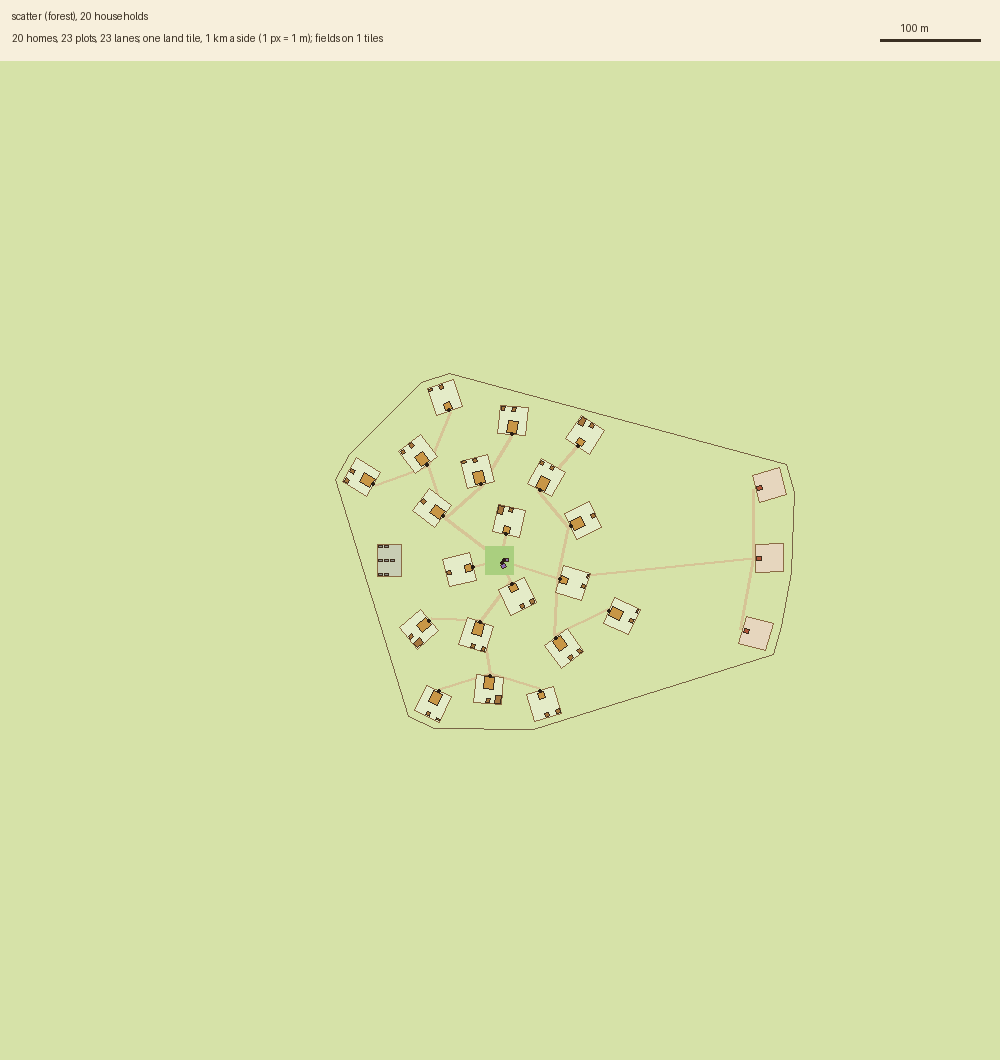
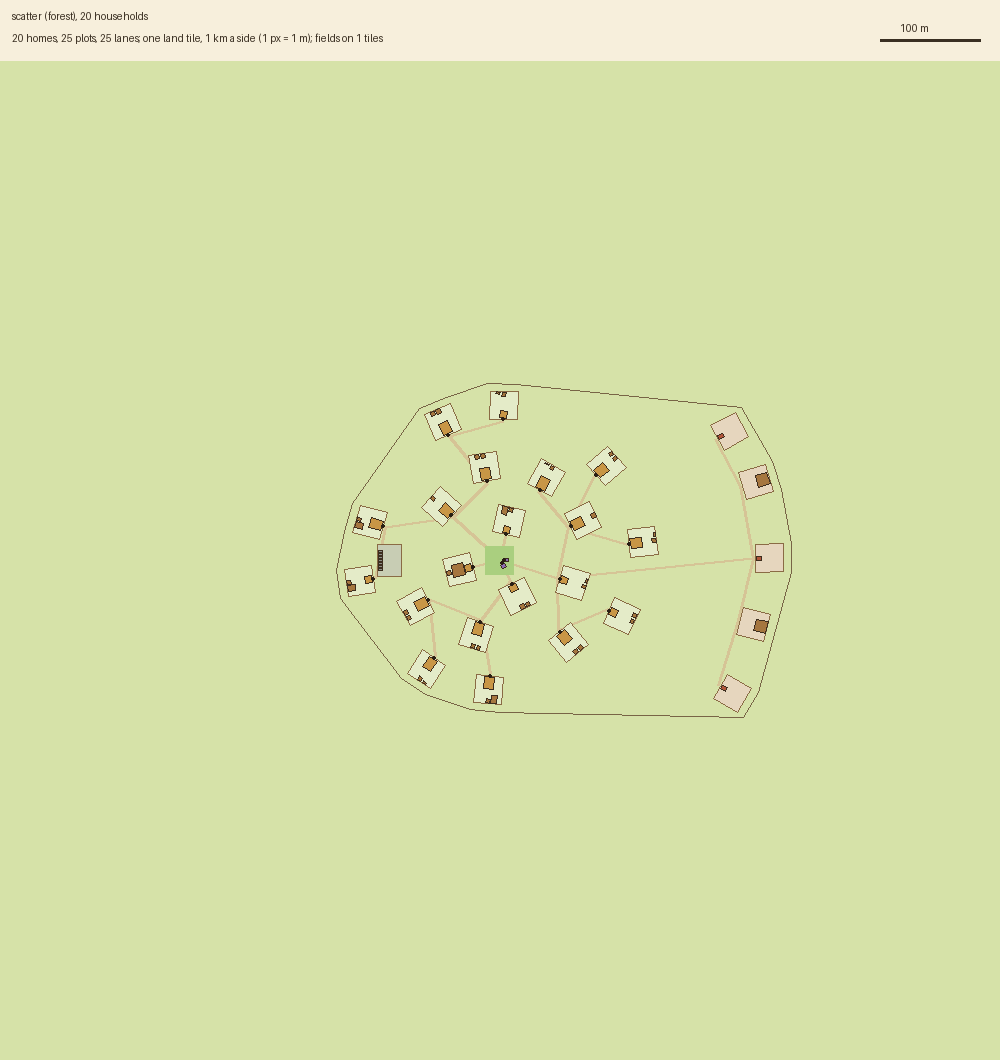
world5 WP3 (first part): bots at home in towns; fewer refusals than a plain world
- mending names the building (bid) and prefers the worn one on a tile of many
- target_building takes a building by id (towns_spec §5.5)
- a full yard spills to craft plots of one's own, up to three
- fishing walks to the next water when the best is out of reach (towns: a village
  fishes its water thin)
- field strips 40 x 200 m, 80 a tile (open-field strips; 100 m strips ran out)

3 bot years, 3 seeds: refusals 1,706 (plain 2,290), alive 711 (662), births 174 (141),
starved 41 (54). Without towns the hash is unchanged.

Claude-Session: https://claude.ai/code/session_01GmnrPiQgfTzNXLBavfq67Z

diff --git a/civ/acts.py b/civ/acts.py
@@ -866,7 +866,18 @@ class Acts:
                 if cands:
                     spot = min(cands, key=lambda t: (not good(*t), dist(p.x, p.y, *t)))
                     break
-            if not spot or not self.walk(p, act, spot[0], spot[1], True):
+            walked = bool(spot) and self.walk(p, act, spot[0], spot[1], True)
+            if spot and not walked and w.towns:
+                # the best water out of reach (another lake): the next that can be walked to
+                for rr in (self.sight(p), 12, 20):
+                    for t in sorted(((x, y) for x, y in w.beside(p.x, p.y, rr) if TERRAIN[w.t(x, y)].get("water")),
+                                    key=lambda t: (not good(*t), dist(p.x, p.y, *t)))[:12]:
+                        if self.walk(p, act, t[0], t[1], True):
+                            walked = True
+                            break
+                    if walked:
+                        break
+            if not walked:
                 if not thin:
                     return "you know of no water to fish in"
                 act = {"do": "fish", "left": act["left"], "got": 0}      # none better near: fish here all the same
@@ -1464,8 +1475,8 @@ class Acts:
     def start_mend(self, p, a):
         w = self.w
         worn = lambda b: b.done and b.hp < BUILDINGS[b.kind]["hp"] and self.may_mend(p, b, a.get("for"))
-        if a.get("x") is not None and a.get("y") is not None:
-            b = self.target_building(p, a, lambda b: b.done)
+        if a.get("x") is not None and a.get("y") is not None or a.get("bid") is not None:
+            b = (self.target_building(p, a, worn) if w.towns else None) or self.target_building(p, a, lambda b: b.done)
             if not b:
                 return "there is no building there to mend"
             if not self.may_mend(p, b, a.get("for")):
@@ -1484,14 +1495,14 @@ class Acts:
             st = self.building_near(p, lambda s: s.done and s.inv.get(stuff) and s.owner in (p.id, p.partner)
                                     and "store" in BUILDINGS[s.kind]["roles"], r=15)
             if st and not a.get("fetched") and p.intent is not None:
-                p.intent.setdefault("plan", []).insert(0, dict(a, x=b.x, y=b.y, fetched=True))
+                p.intent.setdefault("plan", []).insert(0, dict(a, x=b.x, y=b.y, bid=b.id, fetched=True))
                 return self.start_take(p, {"item": stuff, "n": 1, "x": st.x, "y": st.y})
             # made from what one carries (rope from fibre), or gathered close by (stone): that first, then the mending
             # (world4: "takes 1 rope, and you carry none" was the minds' second refusal, 223 in 94 days)
             if not a.get("readied") and p.intent is not None:
                 plan = p.intent.setdefault("plan", [])
                 before = len(plan)
-                again = dict(a, x=b.x, y=b.y, readied=True, fetched=True)
+                again = dict(a, x=b.x, y=b.y, bid=b.id, readied=True, fetched=True)
                 near = self.find(p, stuff, far=False) if self.sources(stuff) else None
                 if (self.start_gather(p, {"item": stuff, "n": 1}) if near and dist(p.x, p.y, *near) <= 10
                         else stuff in I.ITEMS and not self.sources(stuff) and self.start_craft(p, {"item": stuff, "n": 1})) is True:
@@ -1682,6 +1693,10 @@ class Acts:
     # ================= putting and taking =================
     def target_building(self, p, a, test):
         w = self.w
+        if a.get("bid") is not None:                # named by its id (bots always can: towns_spec §5.5)
+            b = w.buildings.get(a.get("bid"))
+            if b is not None and test(b):
+                return b
         if a.get("x") is not None and a.get("y") is not None:
             x, y = int(a["x"]), int(a["y"])
             b = w.pick(p, x, y, test)

diff --git a/civ/towns.py b/civ/towns.py
@@ -463,14 +463,18 @@ def place(w, p, kind, near=None):
         spot = on_plot(w, site, plot, kind, size, front=False)
         if spot:
             return spot
-        craft = next((q for q in site.plots if q["holder"] == p.id and q["kind"] == "craft"), None)
-        if craft is None:                       # a full yard spills to a craft plot of one's own at the edge
+        # a full yard spills to a craft plot of one's own at the edge (another when those are full, up to three)
+        crafts = [q for q in site.plots if q["holder"] == p.id and q["kind"] == "craft"]
+        for q in crafts:
+            if spot := on_plot(w, site, q, kind, size, front=False):
+                return spot
+        if len(crafts) < 3:
             craft = plot_for(w, site, p.id, "craft")
             if isinstance(craft, str):
                 return "your yard is full, and the settlement has no room for another plot"
-        if spot := on_plot(w, site, craft, kind, size, front=False):
-            return spot
-        return "your yard and your craft plot are full"
+            if spot := on_plot(w, site, craft, kind, size, front=False):
+                return spot
+        return "your yard and your craft plots are full"
     if z == "edge":
         craft = next((q for q in site.plots if q["holder"] == p.id and q["kind"] == "craft"), None)
         if craft is None:
@@ -686,7 +690,7 @@ def furlongs(w, x, y, site):
     k = key(x, y)
     if k in w.fieldmap:
         return w.fieldmap[k]
-    sw, sl = 25 * CELL, 50 * CELL
+    sw, sl = 10 * CELL, 50 * CELL           # a strip 40 x 200 m (open-field strips were long and narrow)
     vertical = abs(y - site.y) >= abs(x - site.x) if (x, y) != (site.x, site.y) else True
     w_, h_ = (sw, sl) if vertical else (sl, sw)
     probe = Settlement(id=-1, name="", x=x, y=y)
@@ -700,7 +704,7 @@ def furlongs(w, x, y, site):
         for i in range(int((TILE_M - 2 * MARGIN) // (w_ + 2))):
             X, Y = X0 + i * (w_ + 2) + w_ / 2, Y0 + j * (h_ + 4) + h_ / 2
             r = (X, Y, w_, h_, 0.0)
-            if fits(w, probe, r, obs, gap=2) and len(strips) < 40:
+            if fits(w, probe, r, obs, gap=2) and len(strips) < 80:
                 strips.append([round(X, 1), round(Y, 1), w_, h_, 0])
     fm = {"site": site.id, "strips": strips}
     w.fieldmap[k] = fm

diff --git a/civ/minds/bot.py b/civ/minds/bot.py
@@ -719,7 +719,7 @@ class BotMind:
         get = [] if p.inv.get(stuff) else self.planner.get(p, stuff, 1)
         if get is None or len(get) > 3:
             return None
-        return get + [{"do": "mend", "x": b.x, "y": b.y}]
+        return get + [{"do": "mend", "x": b.x, "y": b.y, "bid": b.id}]
 
     def upkeep_goal(self, p):
         """Mend what is one's own and worn near where one lives (c59: buildings weather and fall unless
@@ -1290,7 +1290,7 @@ class BotMind:
             short = [k for k in self.lacking(p, store) if k != "berries" and e.find(p, k)]
             worn = self.worn(p, p, r=15)
             if worn and w.rng.random() < 0.5:
-                task = {"do": "mend", "x": worn[0].x, "y": worn[0].y}
+                task = {"do": "mend", "x": worn[0].x, "y": worn[0].y, "bid": worn[0].id}
             elif short:
                 task = {"do": "gather", "item": short[0], "n": 8}
             else:

diff --git a/civ/content/towns.py b/civ/content/towns.py
@@ -11,7 +11,7 @@ CELL = 4            # metres a cell
 KINDS = {
     "fire": ((1, 1), "yard", 1), "shelter": ("people", "dwelling", 0), "store": ((1, 1), "yard", 0),
     "drying_rack": ((1, 0.5), "yard", 0), "grave": ((0.5, 1), "burial", 0), "cairn": ((1, 1), "burial", 0),
-    "farm": ((25, 50), "field", 0), "pen": ((3, 3), "yard", 1), "house": ("people", "dwelling", 0),
+    "farm": ((10, 50), "field", 0), "pen": ((3, 3), "yard", 1), "house": ("people", "dwelling", 0),
     "granary": ((2, 2.5), "yard", 0), "kiln": ((1, 1.25), "edge", 2), "loom": ((1.5, 2), "yard", 0),
     "oven": ((1, 1), "yard", 1), "tannery": ((2.5, 3), "edge", 2), "brewhouse": ((2.5, 3), "yard", 1),
     "workshop": ((3, 4), "yard", 1), "palisade": ((1, 4), "edge", 0), "shrine": ((1, 1), "commons", 0),
